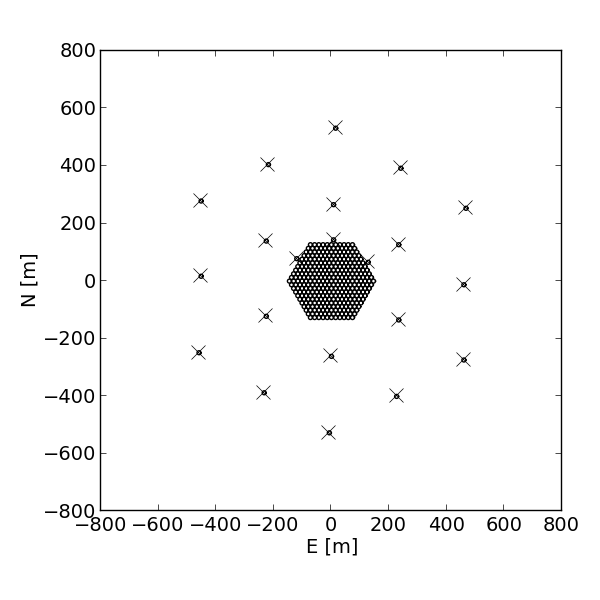
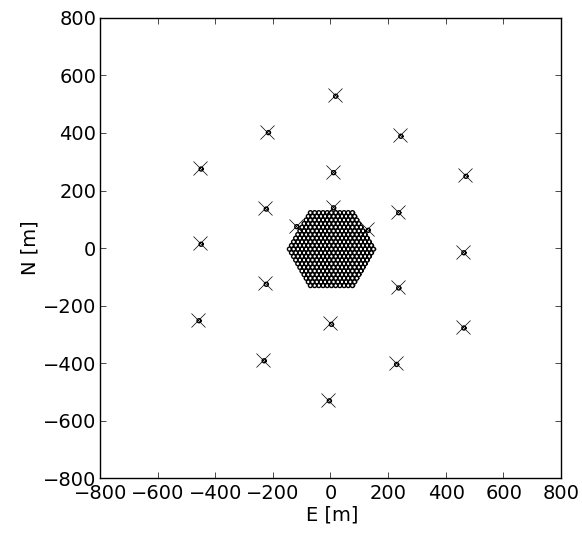
Trimming of images in several figures to make them fit better.

diff --git a/proj_description.tex b/proj_description.tex
@@ -1240,8 +1240,8 @@ with a staged incorporation of new elements for night-time observing.
 
 \begin{figure}[t]
 \centering
-		\includegraphics[width=0.45\textwidth]{plots/HERA_331_pos.png}
-		\includegraphics[width=0.45\textwidth]{plots/HERA_331_uv_clipped.png}
+		\includegraphics[height=2.5in]{plots/HERA_331_pos.png}
+		\includegraphics[height=2.5in]{plots/HERA_331_uv_clipped.png}
 \caption{\small
 Left: Configuration of HERA-331, with 331 dishes in a maximally-dense hexagonal core and 21 outrigger dishes.  Right: The resulting $uv$-coverage is fully-sampled to $\sim 400\lambda$ %[XXX: is this the ``official" figure to quote?]}
 }\label{fig:uv_coverage}
